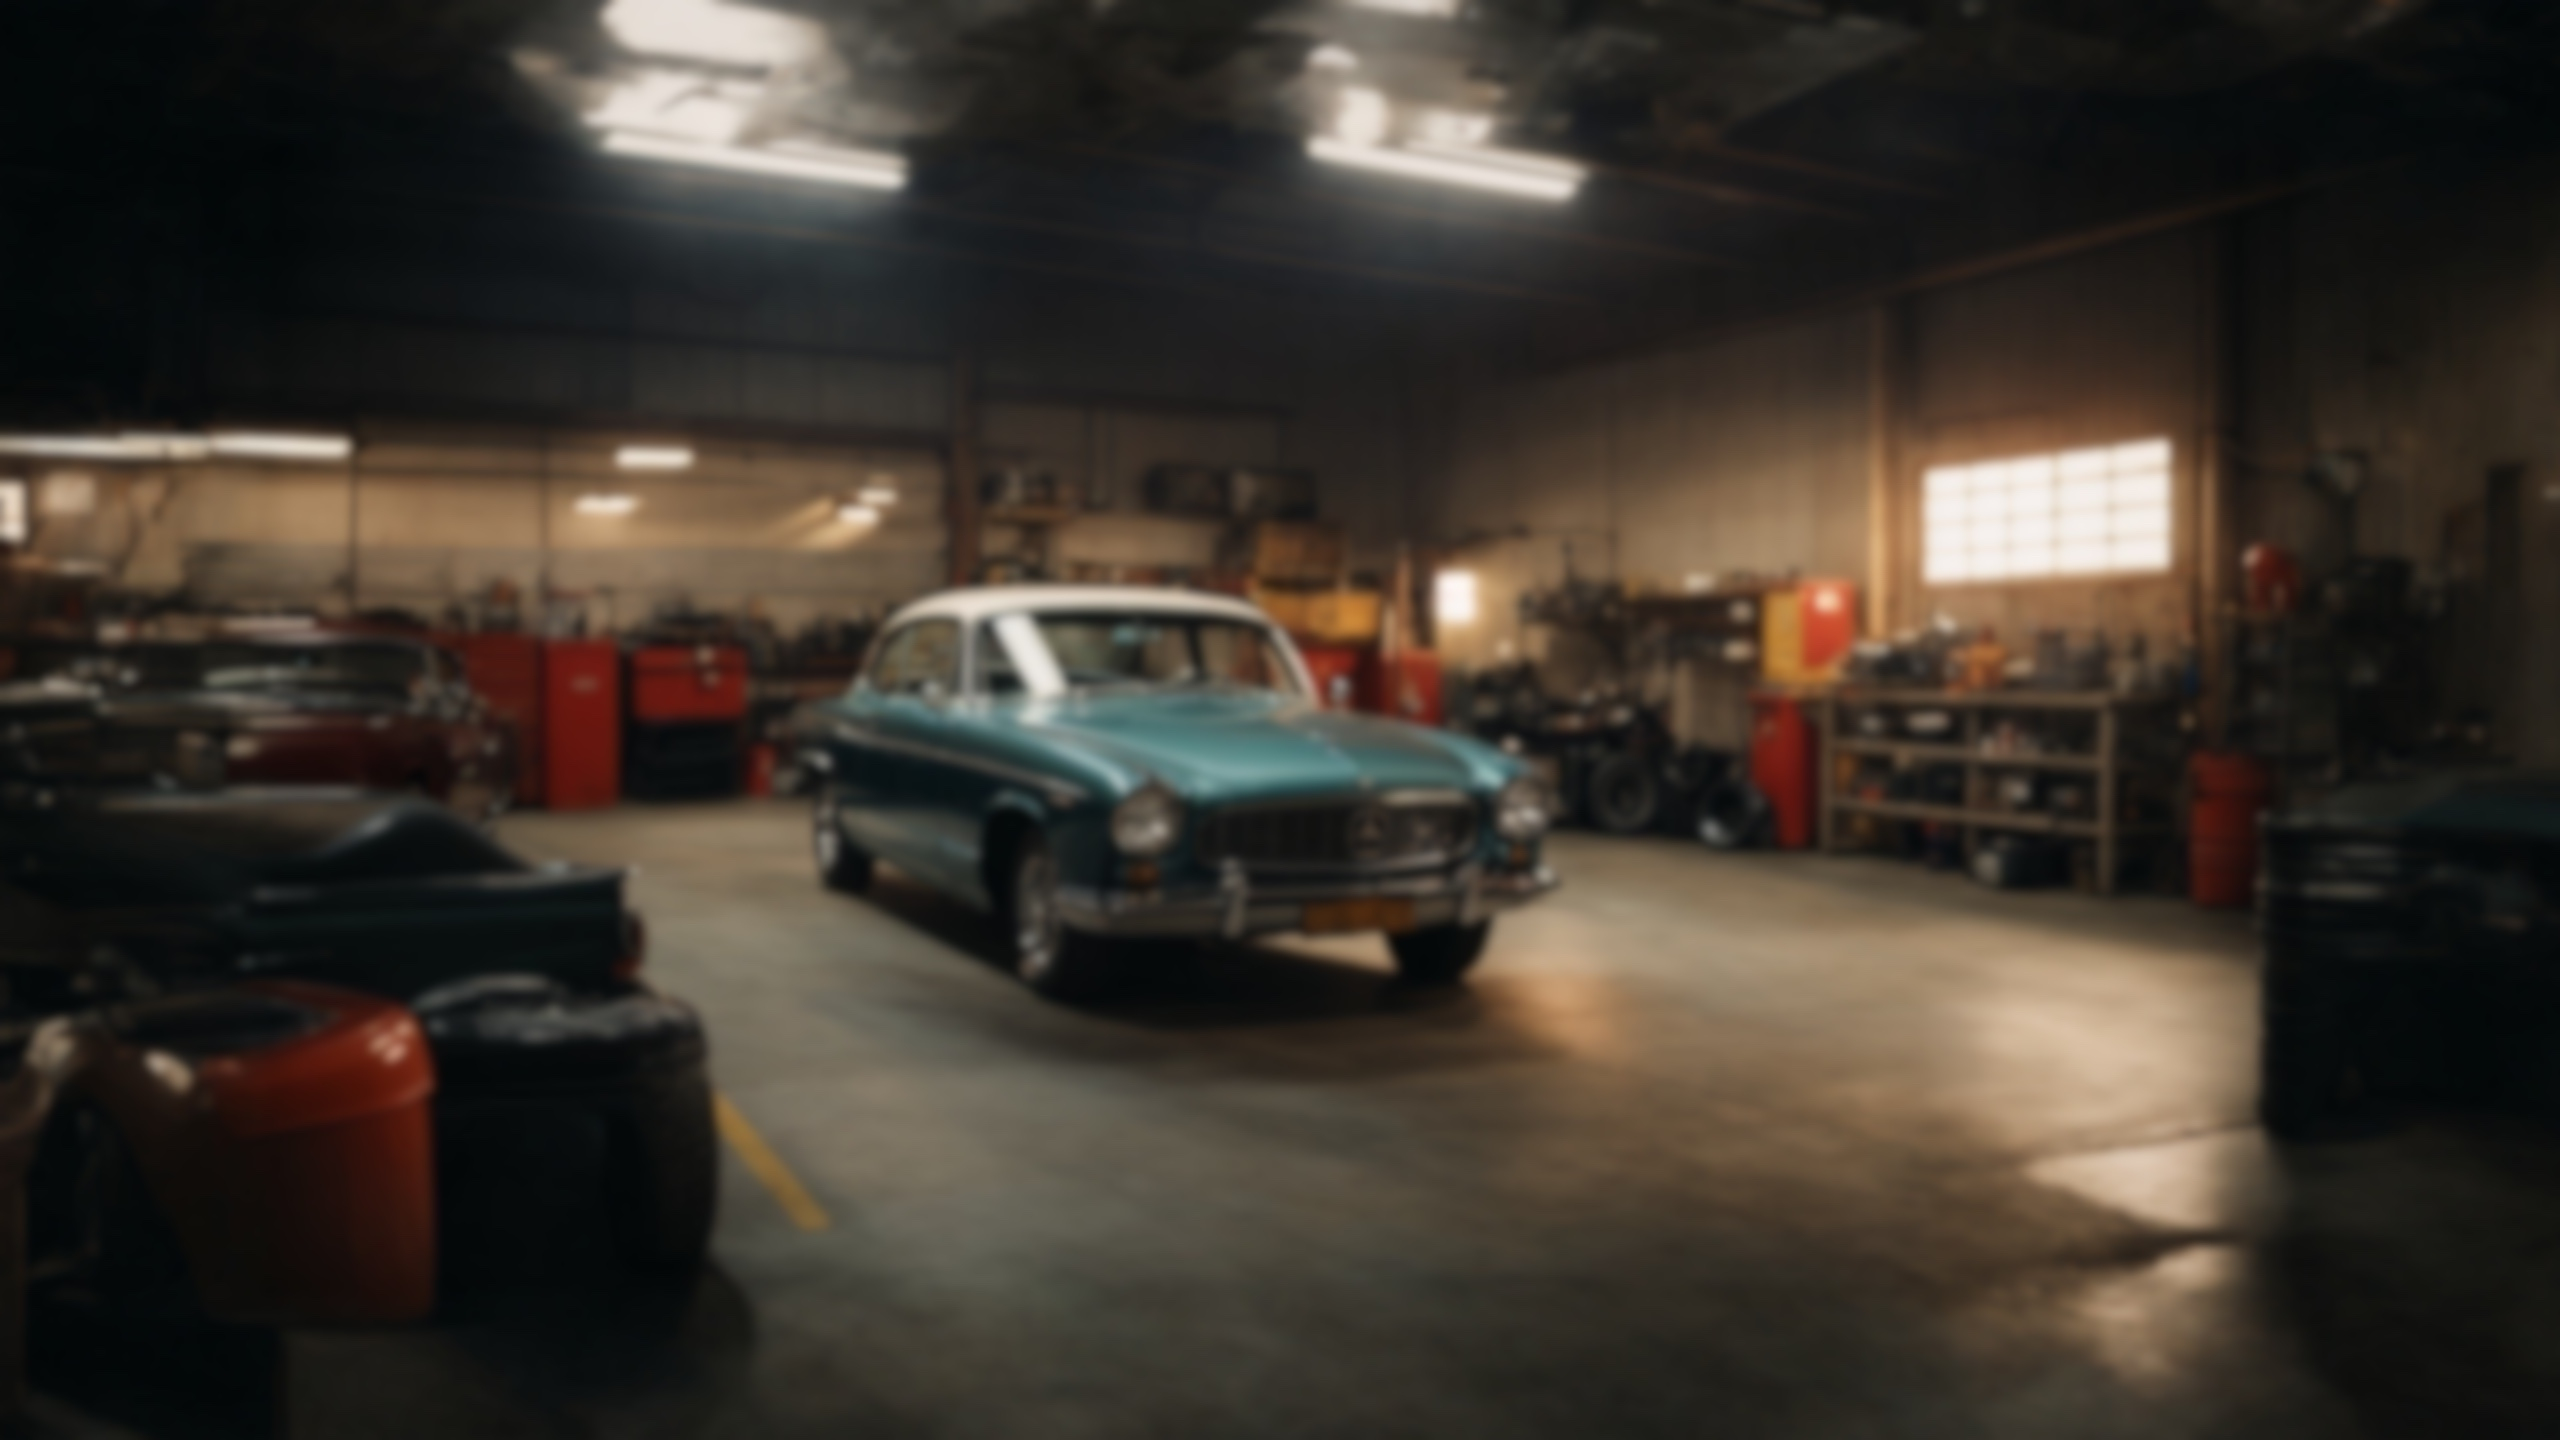
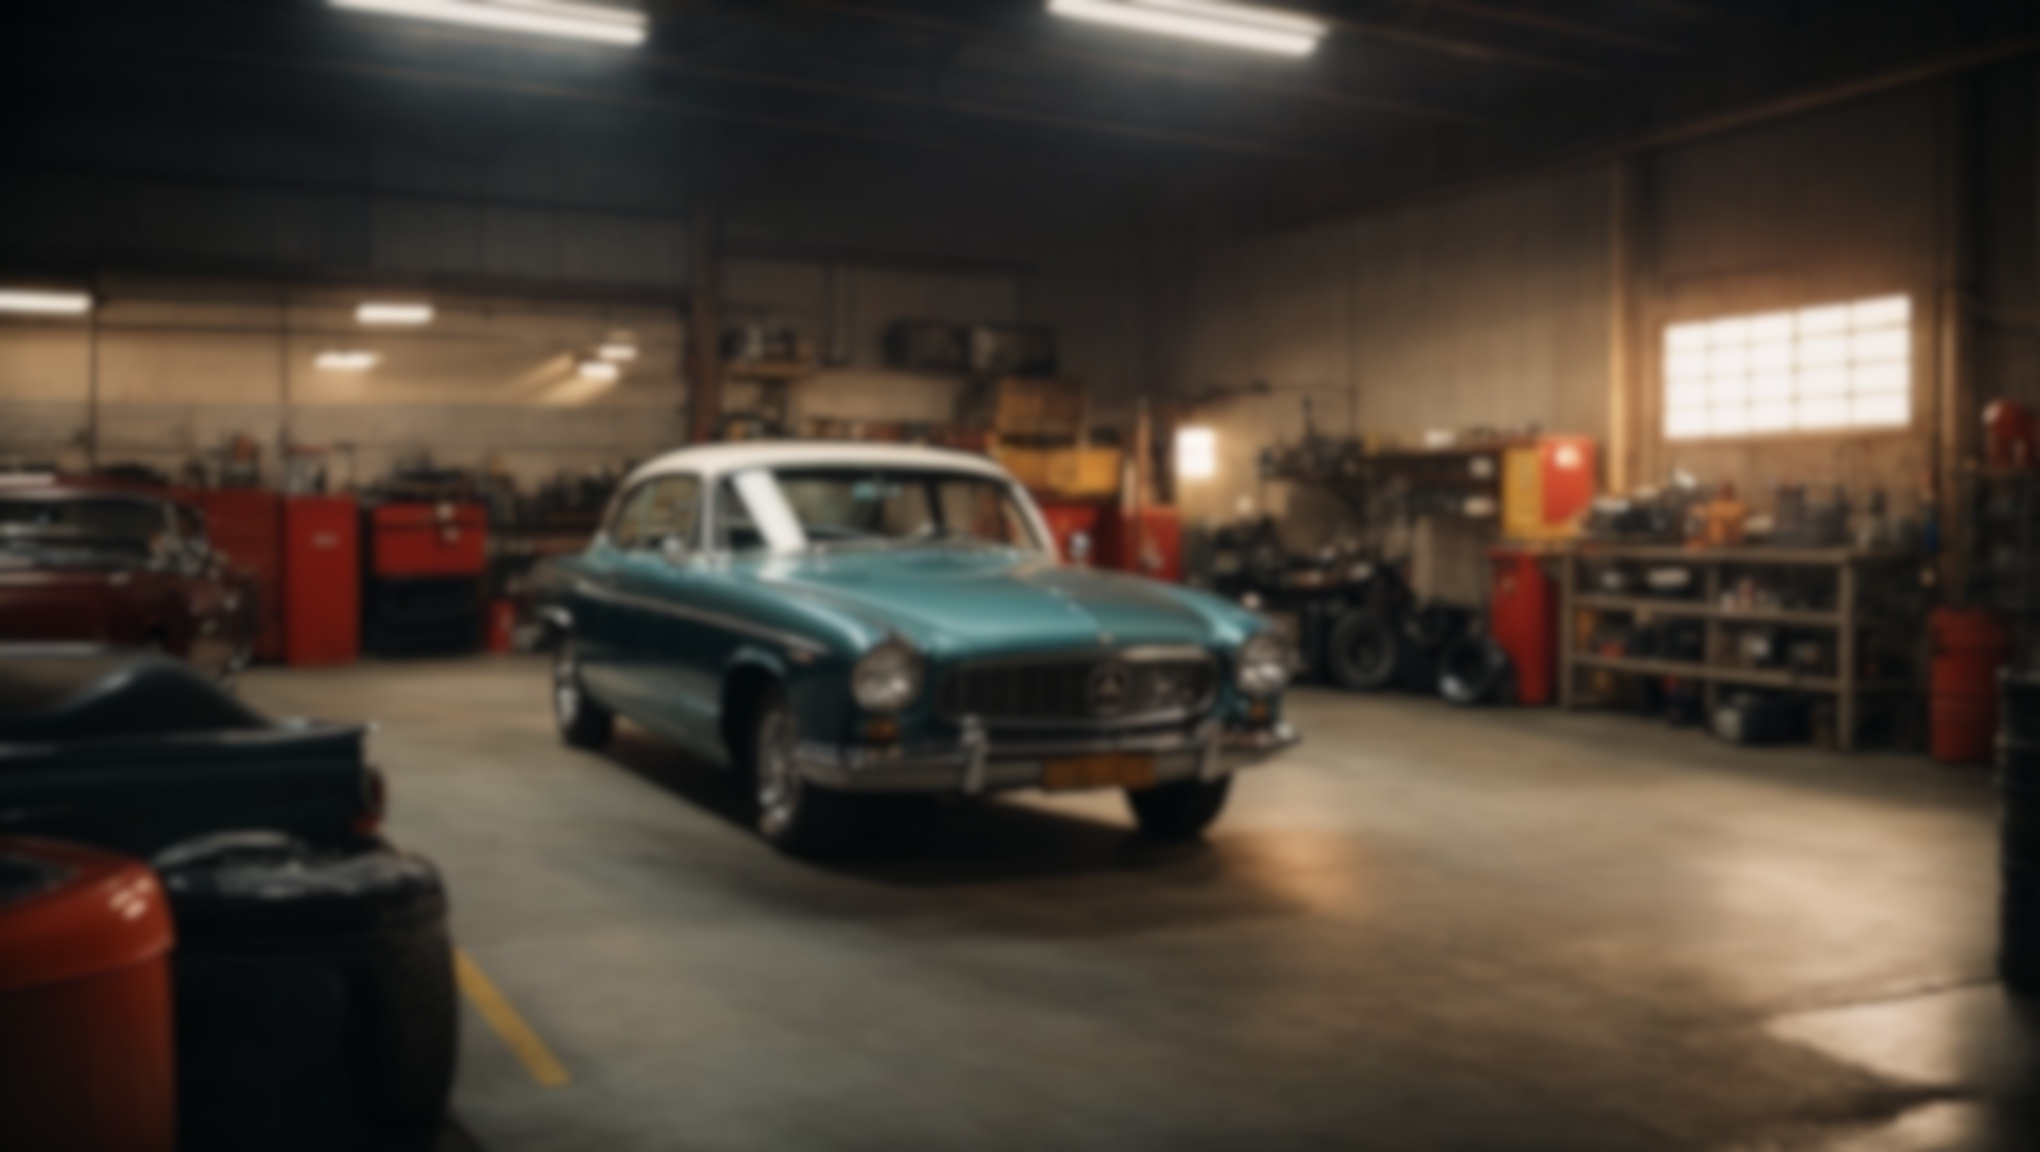
added loading screen and background

diff --git a/styles.css b/styles.css
@@ -4,8 +4,7 @@
 #errorMessage {
     color: red;
 }
-body{
-    /* background-color: #999999; */
+body {
     background-image: url(assets/carGarageOne.jpeg);
     background-size: cover;
     background-repeat: no-repeat;
@@ -13,10 +12,7 @@ body{
     flex-direction: column;
     align-items: center;
     justify-content: center;
-    color:whitesmoke;
-
-
-
+    color: rgb(228, 228, 228);
 }
 input{
     background-color: #cdcdcd;
@@ -37,3 +33,22 @@ button:hover {
 button#myRemoveAllButton:hover {
     background-color: #ff0000; /* Red background color on hover */
 }
+#main-content {
+    flex-direction: column;
+    align-items: center;
+    justify-content: center;
+}
+#loading-screen {
+    position: fixed;
+    top: 0;
+    left: 0;
+    width: 100%;
+    height: 100%;
+    background-image: url(assets/carGarageTwo.jpeg);
+    display: flex;
+    justify-content: center;
+    align-items: center;
+    z-index: 9999;
+    background-size: cover;
+}
+

diff --git a/garage.html b/garage.html
@@ -10,6 +10,8 @@
 
 <body>
 
+
+<div id="main-content">
     <h1>My Garage</h1>
     <form id="carForm">
         Owner's Name: <input id="ownerName">
@@ -30,8 +32,11 @@
     <div id="fixedCounter"></div><br>
     <div id="fixedDisplay"></div>
 
-    <button id="myRemoveAllButton" `onclick="removeAll()">Remove all cars</button>
-
+    <button id="myRemoveAllButton" onclick="removeAll()">Remove all cars</button>
+</div>
+    <div id="loading-screen">
+        <img src="assets/loading.gif" alt="Loading..." width="150" height="150">
+    </div>
     <script src="script.js"></script>
 </body>
 

diff --git a/script.js b/script.js
@@ -1,3 +1,9 @@
+// Hide the loading screen after 2 seconds
+setTimeout(function () {
+    document.getElementById('loading-screen').style.display = 'none';
+    document.getElementById('main-content').style.display = 'flex';
+}, 3000);
+
 let cars = []
 let fixedCars = []
 
